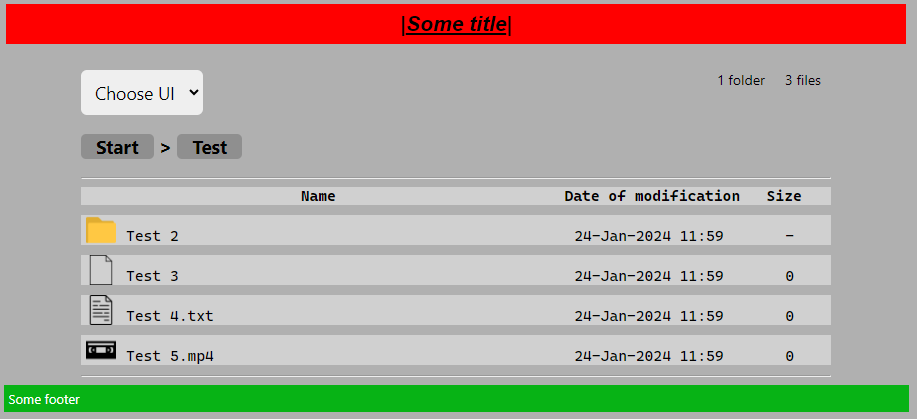
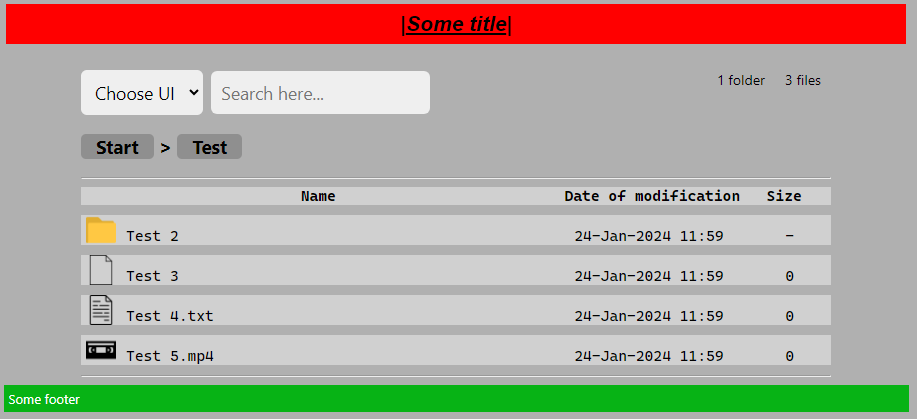
Add "search here" feature

Changed region(s): [[0.2137, 0.1551, 0.4885, 0.2792]]

diff --git a/nginx-before.html b/nginx-before.html
@@ -26,7 +26,7 @@
 				<div id="title">
 					<span class="stats" id='file-stats'></span>
 					<span class="stats" id='dir-stats'></span>
-					<select id="ui_version" title="Choose UI" onchange="javascript:setCookie('ui_version',this.value,9999); window.location.href=''">
+					<select id="ui_version" title="Choose UI" onchange="javascript:setCookie('ui_version',this.value,9999); window.location.href=''" style="display:inline-block;">
 						<option value="" selected disabled hidden>Choose UI</option>
 						<option value="v1">UI v1</option>
 						<option value="v1+">UI v1+</option>
@@ -34,6 +34,7 @@
 						<option value="v3">UI v3</option>
 						<option value="">UI v3.1</option><!-- The newest version gets an empty string to not remain stuck in the current newest version if a new one is released. -->
 					</select>
+					<input type="text" id="search" placeholder="Search here..." onkeyup="search(this.value)" title="Search here" style="display:none;">
 				</div>
 				<div id='listing'>
 					<div>

diff --git a/nginx-after.html b/nginx-after.html
@@ -4,13 +4,16 @@
 		</div>
 
 		<p style="max-width: 900px; font-size: 13px; color: white; background-color: #07b315; margin: 0 auto; padding: 5px 0 5px 5px;">Some footer</p>
+
+		<script type="text/javascript" src="/theme/js/General.js"></script>
+
+		<script type="text/javascript">
+			document.getElementById("search")
+		</script>
+
+		<script type="text/javascript" src="/theme/js/UIv1+.js"></script>
+		<script type="text/javascript" src="/theme/js/UIv2.js"></script>
+		<script type="text/javascript" src="/theme/js/UIv3.js"></script>
+		<script type="text/javascript" src="/theme/js/UIv3.1.js"></script>
 	</body>
-
-	<script type="text/javascript" src="/theme/js/General.js"></script>
-
-	<script type="text/javascript" src="/theme/js/UIv1+.js"></script>
-	<script type="text/javascript" src="/theme/js/UIv2.js"></script>
-	<script type="text/javascript" src="/theme/js/UIv3.js"></script>
-	<script type="text/javascript" src="/theme/js/UIv3.1.js"></script>
-
 </html>

diff --git a/js/General.js b/js/General.js
@@ -39,3 +39,15 @@ function strToHtml(str) {
 
 	return ret;
 }
+
+function search(str) {
+	var elements = document.querySelectorAll(".element2,.element3,.element31");
+	for (var i = 0; i < elements.length; i++) {
+		var element = elements[i];
+		if (element.title.split("|||")[0].toLowerCase().includes(str.toLowerCase())) {
+				element.style.display = "inline-block";
+		} else {
+				element.style.display = "none";
+		}
+	}
+}
